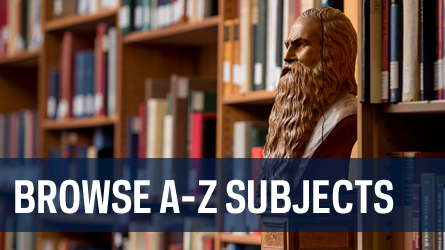
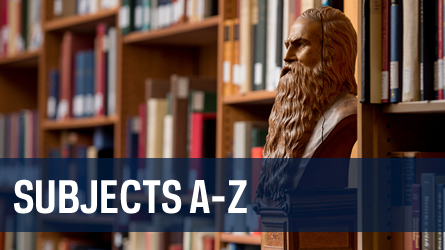
Alerts styling and layout fixes.

Changed region(s): [[0.0292, 0.7, 0.9056, 0.868]]

diff --git a/src/components/Home/index.js b/src/components/Home/index.js
@@ -11,7 +11,7 @@ import Reserves from '../../static/images/reserves.jpg'
 import Account from '../../static/images/myaccount.jpg'
 import Room from '../../static/images/reserveroom.jpg'
 import Tech from '../../static/images/tech.jpg'
-import Find from '../../static/images/findlibrarian.jpg'
+import Find from '../../static/images/subjects.jpg'
 
 class Home extends Component {
   render () {
@@ -29,7 +29,7 @@ class Home extends Component {
             <Link to='/courses' title='Course Reserves'><img src={Reserves} alt='Course Reserves' aria-hidden /></Link>
           </div>
           <div className='-col-sm-3 -col-xs-6 three'>
-            <Link to='http://directory.library.nd.edu/directory/subjects' title='Find Your Librarian' noTarget><img src={Find} alt='Find Your Librarian ' aria-hidden /></Link>
+            <Link to='/subjects' title='Subjects A-Z' noTarget><img src={Find} alt='Find Your Librarian ' aria-hidden /></Link>
           </div>
           <div className='-col-sm-3 -col-xs-6 four'>
             <Link to='http://nd.libcal.com/#s-lc-box-2749-container-tab1' title='Reserve a Room'><img src={Room} alt='Reserve a Room. ' aria-hidden /></Link>

diff --git a/src/static/css/global.css b/src/static/css/global.css
@@ -253,20 +253,39 @@ a {
 }
 
 .alert {
-  padding: 9px;
+  padding: 20px;
 }
 
-.alert > a {
+.alert .width {
+  max-width: 1200px;
+  margin: 0 auto;
+}
+
+.alert a {
   color: #061F43;
 }
 
+.alert strong {
+  color: #AA272F;
+  background: url('../images/alert.png') no-repeat;
+  background-size: contain;
+  padding-left: 34px;
+  padding-top: 4px;
+  font-size: 20px;
+  line-height: 1em;
+}
+
 .alert.global {
-  border: solid 2px #DB2730;
+  border: solid 2px #AA272F;
   background: #FC7279;
 }
 
+.alert.global strong {
+  color: #fff;
+}
+
 .alert.page {
-  border: solid 2px #DF7728;
+  border: solid 2px #AA272F;
   background: #FFB073;
   margin-bottom: 9px;
 }
@@ -2413,8 +2432,7 @@ body {
 
 
 .logout-button-personal {
-  clear: right;
-  margin-top: 20px;
+  margin-left: 15px;
 }
 .screen-reader-only {
     position: absolute;

diff --git a/src/components/Courses/presenter.js b/src/components/Courses/presenter.js
@@ -160,8 +160,9 @@ class Courses extends Component {
     return (
       <div className='container-fluid content-area'>
         <div key='courses' className='content'>
-          <Link to='/personal' className='button fright tab'>My Items</Link>
           <LogOut />
+          <Link to='/personal' className='button fright tab'>My Items</Link>
+          
           <PageTitle title='Courses' classaName='hr-cor' />
           <SearchProgramaticSet open={false} />
 

diff --git a/src/components/Contentful/Alert/presenter.js b/src/components/Contentful/Alert/presenter.js
@@ -5,9 +5,10 @@ import Link from '../../Link'
 const AlertDisplay = (className, link, text, title) => {
   return (
     <div className={className} key={title}>
-      <Link to={link}>
-        {'ATTENTION: ' + text}
+      <div className='width'><strong>ATTENTION:</strong> <Link to={link}>
+        {text}
       </Link>
+      </div>
     </div>
   )
 }

diff --git a/src/components/PersonalInfo/presenter.js b/src/components/PersonalInfo/presenter.js
@@ -14,8 +14,9 @@ import StaticBody from '../Contentful/StaticContent/Body'
 const LoggedIn = (preview) => {
   return (
     <div className='content'>
-      <Courses linkOnly />
       <LogOut />
+      <Courses linkOnly />
+      
       <SearchProgramaticSet open={false} />
       <PageTitle title='Items & Requests' />
       <div className='row'>
